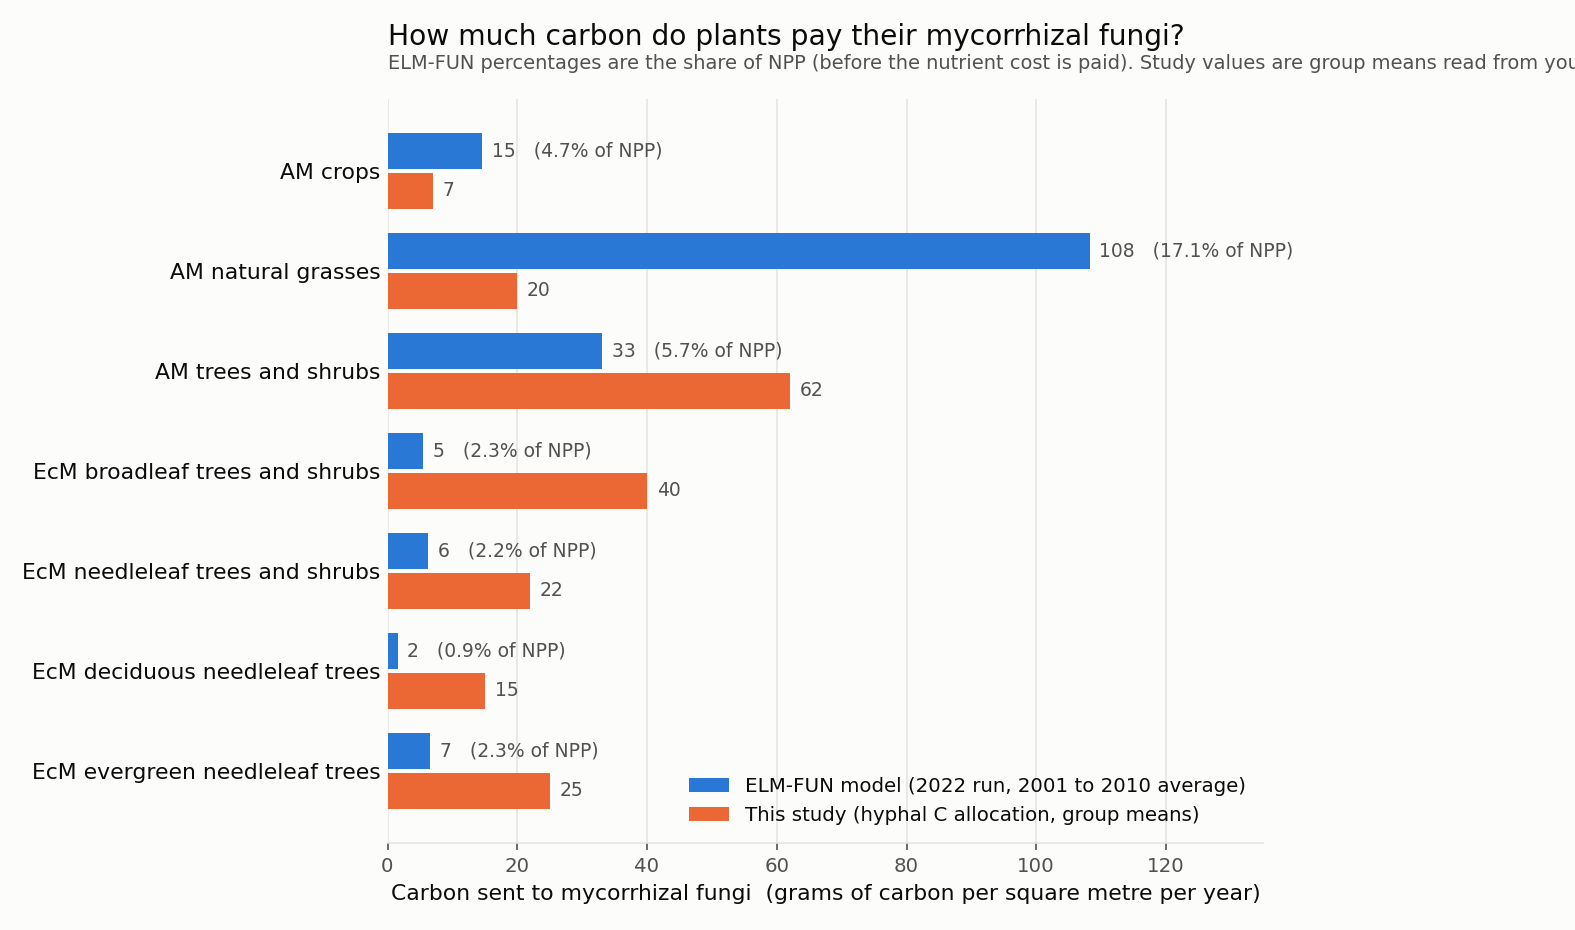
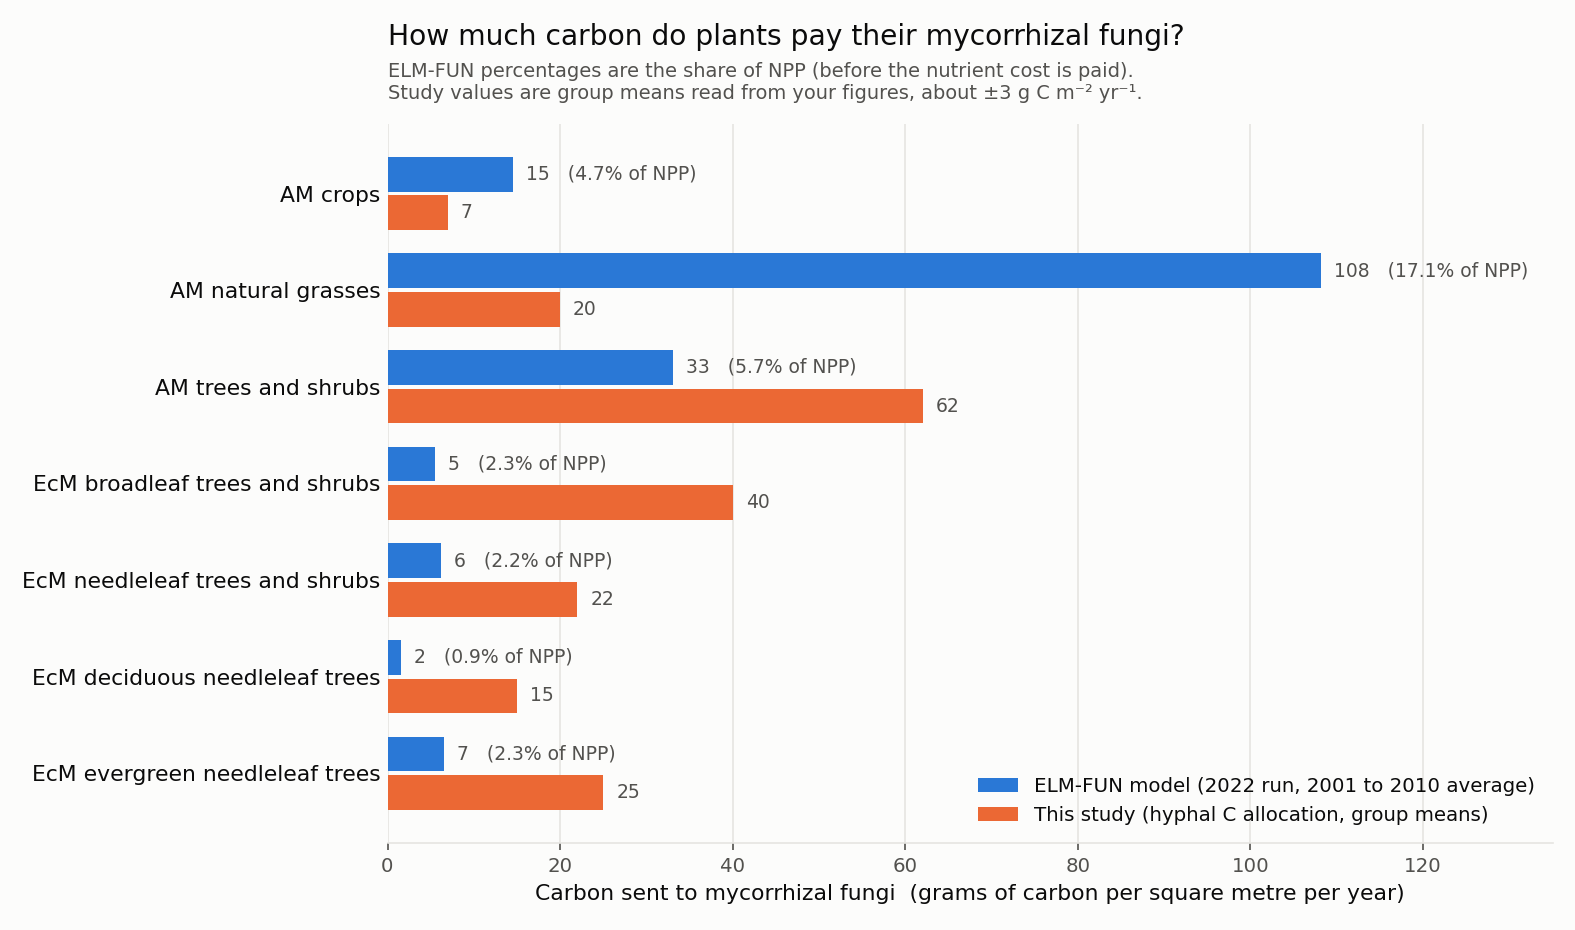
Ashley figure 1: wrap subtitle

Changed region(s): [[0.0, 0.0624, 1.0, 0.8731], [0.2489, 0.8108, 0.9644, 0.9667], [0.9022, 0.2806, 0.9644, 0.3118]]

diff --git a/analysis/ashley/fig1_by_group.py b/analysis/ashley/fig1_by_group.py
@@ -20,8 +20,8 @@ ax.set_xlabel('Carbon sent to mycorrhizal fungi  (grams of carbon per square met
 ax.set_xlim(0,135); ax.xaxis.grid(True,color=GRID,lw=0.8); ax.set_axisbelow(True)
 for s in ('top','right','left'): ax.spines[s].set_visible(False)
 ax.spines['bottom'].set_color(GRID); ax.tick_params(axis='x',colors=INK2,labelsize=9.5); ax.tick_params(axis='y',length=0)
-ax.set_title('How much carbon do plants pay their mycorrhizal fungi?',loc='left',fontsize=13.5,color=INK,pad=26)
-ax.text(0,1.035,'ELM-FUN percentages are the share of NPP (before the nutrient cost is paid). Study values are group means read from your figures, about ±3 g C m⁻² yr⁻¹.',
+ax.set_title('How much carbon do plants pay their mycorrhizal fungi?',loc='left',fontsize=13.5,color=INK,pad=38)
+ax.text(0,1.03,'ELM-FUN percentages are the share of NPP (before the nutrient cost is paid).\nStudy values are group means read from your figures, about ±3 g C m⁻² yr⁻¹.',
         transform=ax.transAxes,fontsize=9.3,color=INK2,va='bottom')
 ax.legend(loc='lower right',frameon=False,fontsize=9.5,labelcolor=INK)
 plt.tight_layout(); plt.savefig('fig1_ELM_vs_thisstudy_by_group.png',dpi=150,facecolor=SURF); print('   wrote fig1_ELM_vs_thisstudy_by_group.png')
